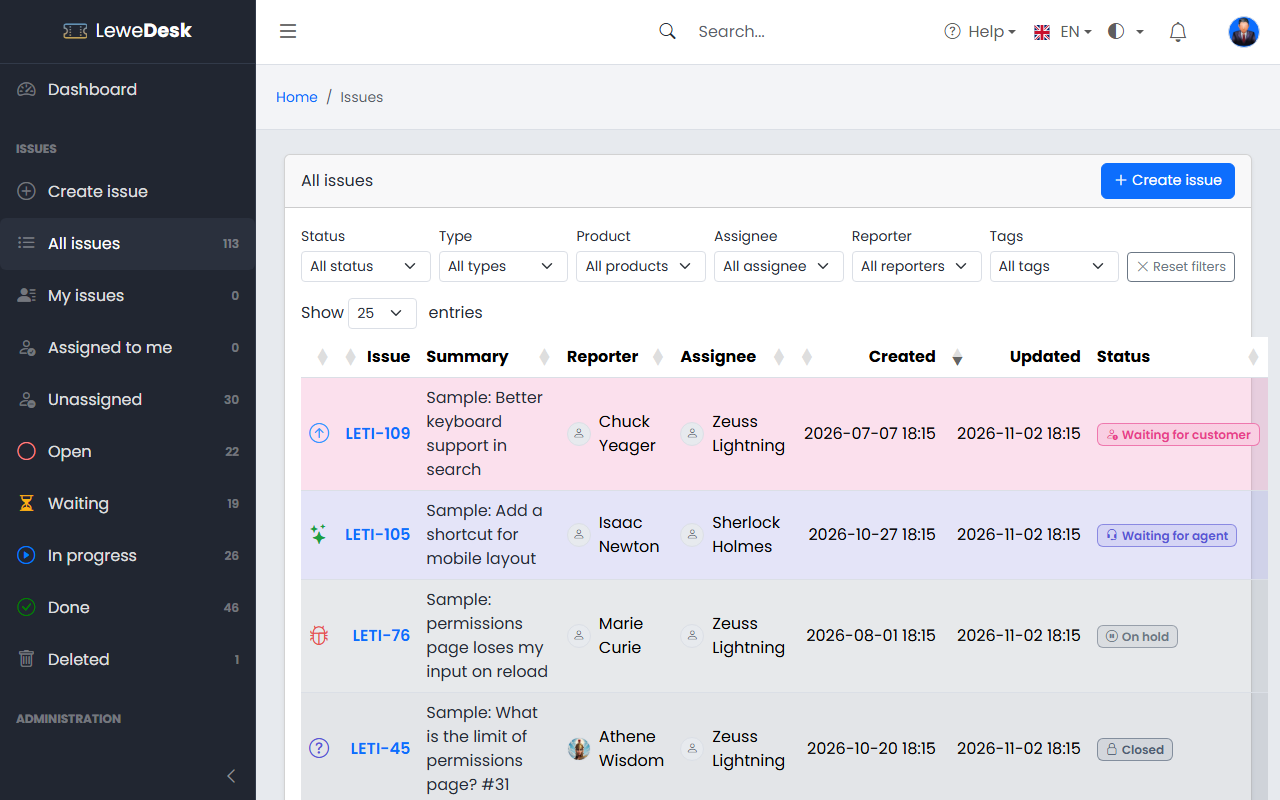
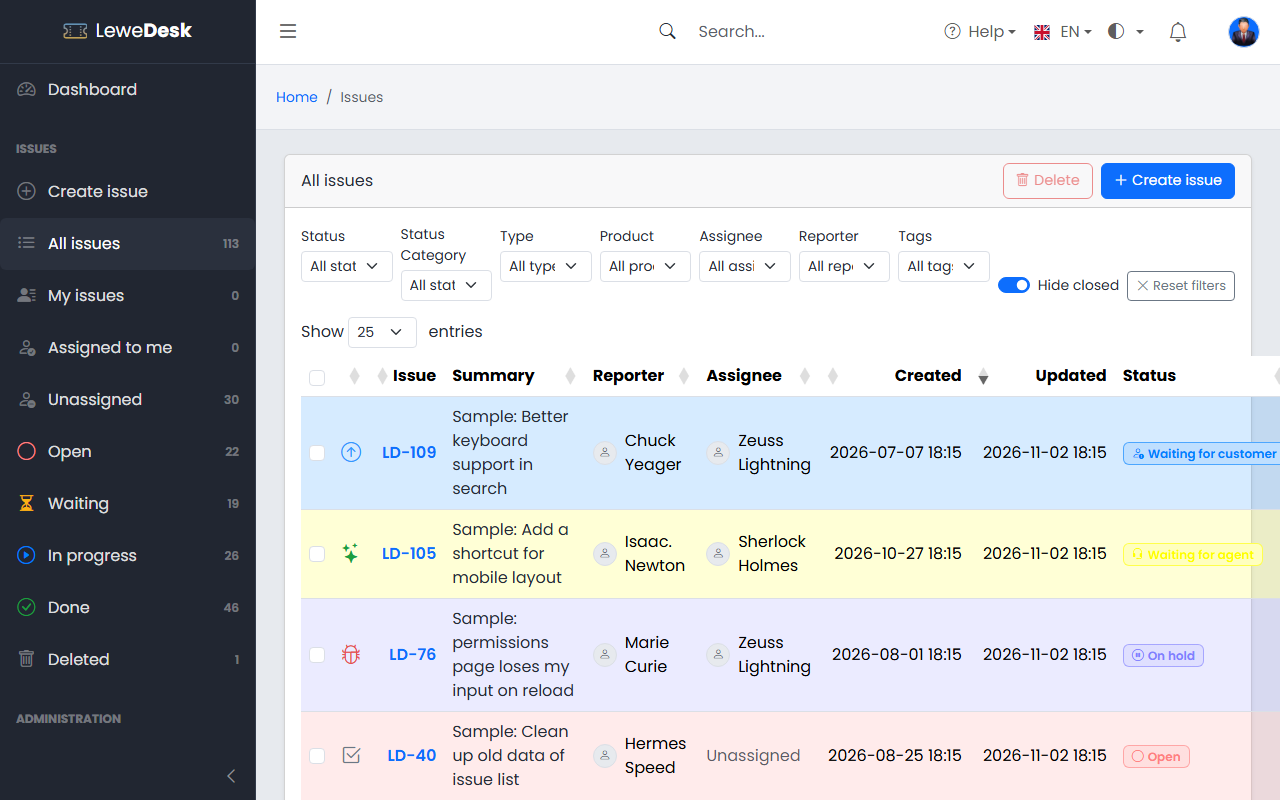
Update list and view pages

Changed region(s): [[0.2188, 0.2812, 1.0, 1.0], [0.7812, 0.2188, 0.8438, 0.25]]

diff --git a/user-guide/issues/list-issues.md b/user-guide/issues/list-issues.md
@@ -8,6 +8,7 @@ The issue list shows the issues you may see. Click an issue key to open the issu
 
 | Column   | Description                                                      |
 | -------- | ---------------------------------------------------------------- |
+| (checkbox) | Selects the issue for [bulk actions](#delete-or-restore-several-issues) (only for users who may delete issues) |
 | (icon)   | Icon of the issue type                                           |
 | Issue    | The issue key, e.g. LD-123                                     |
 | Summary  | Title of the issue                                               |
@@ -39,7 +40,21 @@ The sidebar offers quick views. The number shows how many issues the view holds.
 
 ## Filters
 
-Above the table you can narrow the list down by **Status**, **Type**, **Product**, **Assignee**, **Reporter** and **Tags**. Filters combine with the quick view. Click **Reset filters** to remove them. **Show entries** sets the page size.
+Above the table you can narrow the list down by **Status**, **Status category**, **Type**, **Product**, **Assignee**, **Reporter** and **Tags**. Filters combine with the quick view. **Show entries** sets the page size.
+
+The **Hide closed** switch is on by default and leaves out the issues with the status _Closed_, so that the list shows what still needs attention. Turn it off to see them as well. It has no effect when you choose a status in the **Status** filter.
+
+Click **Reset filters** to remove all filters. This also turns **Hide closed** on again.
+
+## Delete or restore several issues
+
+Users who may delete issues (Agents and Administrators) see a checkbox in front of every row. Tick the issues you want to change, or tick the box in the table header to select all issues of the page. Then click **Delete** above the table and confirm.
+
+<figure><img src="../../.gitbook/assets/issues-bulk.png" alt=""><figcaption></figcaption></figure>
+
+The issues are moved to the _Deleted_ quick view. Deleting works one issue at a time in the background, so the same rules apply as for [Delete issue](issue-actions.md) on a single issue, and each issue gets its entry in the history. A message tells you how many issues were deleted and how many could not be changed.
+
+In the _Deleted_ quick view the **Delete** button is replaced by **Restore**. Select the issues and click **Restore** to bring them back.
 
 ## Search
 

diff --git a/user-guide/issues/issue-detail.md b/user-guide/issues/issue-detail.md
@@ -28,9 +28,23 @@ A collapsible table of all changes. See [History](history.md).
 
 ## Properties
 
-The panel on the right shows type, status, resolution, product, version, access, reporter, assignee, tags, watchers, and the dates created and updated.
+The panel on the right shows type, status, resolution, product, version, access, reporter, assignee, tags, watchers, and the dates created and updated. The product is shown with its icon in the color of the product.
 
 <figure><img src="../../.gitbook/assets/issue-properties.png" alt=""><figcaption></figcaption></figure>
+
+### Change the status
+
+For the support team (users who may change the issue status) the status in the properties is a drop-down list. Select a status to change it right away. The change is added to the [history](history.md).
+
+If the status belongs to the category _Done_, LeweDesk asks for the resolution first.
+
+<figure><img src="../../.gitbook/assets/issue-status-resolution.png" alt=""><figcaption></figcaption></figure>
+
+Select the resolution and click **Save**. If you cancel the dialog, the status stays as it was. Everybody else sees the status as a label.
+
+{% hint style="info" %}
+The drop-down changes the status directly and bypasses the normal flow of the [Issue Actions](issue-actions.md). For the usual steps (respond, resolve, close, reopen) use the **Actions** menu.
+{% endhint %}
 
 {% hint style="info" %}
 If you open an issue that does not exist, or that you may not see, LeweDesk shows the same message in both cases: _The issue does not exist, or you are not allowed to see it._

diff --git a/user-guide/issues/edit-issue.md b/user-guide/issues/edit-issue.md
@@ -22,5 +22,5 @@ The Edit page is for the support team (permission `edit_issue`). Open it with **
 Click **Save changes**. If nothing was changed, LeweDesk tells you so. Every change is recorded in the [History](history.md).
 
 {% hint style="info" %}
-Changing the status here bypasses the normal flow of the [Issue Actions](issue-actions.md). When the status leaves the category _Done_, the resolution is cleared (except when moving from _Resolved_ to _Closed_).
+Changing the status here bypasses the normal flow of the [Issue Actions](issue-actions.md). You can also change the status directly in the [properties](issue-detail.md#change-the-status) of the issue. When the status leaves the category _Done_, the resolution is cleared (except when moving from _Resolved_ to _Closed_).
 {% endhint %}
